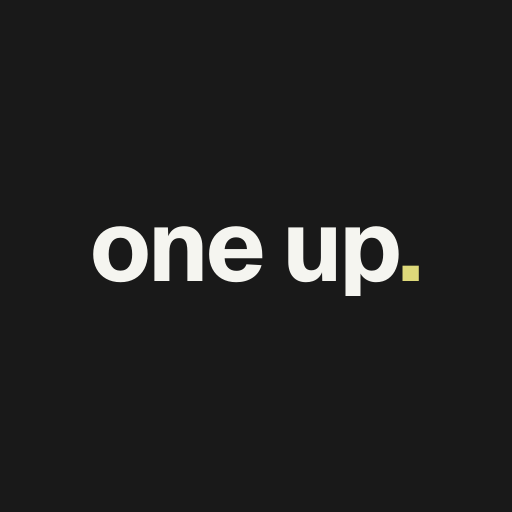
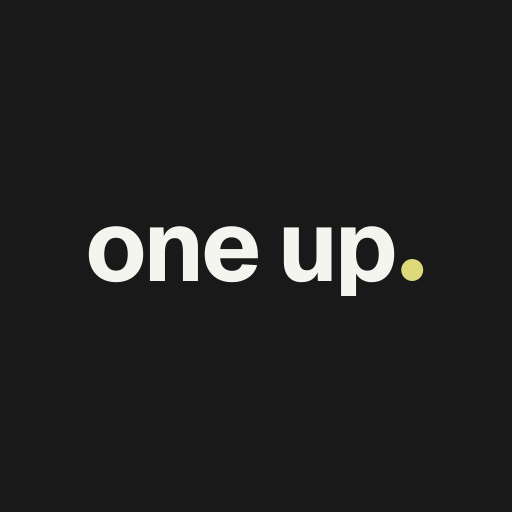
Wordmark full stop is a round accent dot
The "." in "one up." is now a circle in the accent colour (Citron; olive on
the light theme) everywhere: the in-app .wordmark, the web opening screen,
the recap footer, the mobile sign-in title, and every generated icon and
splash image (0.22 em, sitting on the baseline).

Claude-Session: https://claude.ai/code/session_01PXD93eAE4qysGarwNQSYZq

Changed region(s): [[0.1562, 0.4375, 0.8438, 0.5938]]

diff --git a/app/globals.css b/app/globals.css
@@ -139,17 +139,23 @@ input[type="number"] {
   border-radius: 9999px;
 }
 
-/* Editorial wordmark: lowercase with a Citron full stop. */
+/* Editorial wordmark: lowercase with a round Citron full stop. */
 .wordmark {
   font-weight: 700;
   letter-spacing: -0.035em;
 }
+/* The full stop is a round dot in the accent colour. */
 .wordmark::after {
-  content: ".";
-  color: var(--color-citron);
+  content: "";
+  display: inline-block;
+  width: 0.22em;
+  height: 0.22em;
+  margin-left: 0.07em;
+  border-radius: 9999px;
+  background: var(--color-citron);
 }
 :root[data-theme="light"] .wordmark::after {
-  color: var(--color-teal-400);
+  background: var(--color-teal-400);
 }
 
 /* Editorial photo, softened a touch (the source photos are small). */
@@ -552,9 +558,9 @@ input[type="number"] {
 @keyframes dot-pop { 0% { transform: scale(0); } 65% { transform: scale(1.5); } 100% { transform: scale(1); } }
 .launch-w1 { animation: word-rise 420ms var(--ease-out-snappy, ease-out) 60ms both; }
 .launch-w2 { animation: word-rise 420ms var(--ease-out-snappy, ease-out) 200ms both; }
-.launch-dot { transform-origin: 50% 80%; animation: dot-pop 380ms ease-out 480ms both; }
+.launch-dot { transform-origin: center; animation: dot-pop 380ms ease-out 480ms both; }
 .launch-tag { animation: word-rise 400ms ease-out 560ms both; }
-:root[data-theme="light"] .launch-dot { color: var(--color-teal-400); }
+:root[data-theme="light"] .launch-dot { background: var(--color-teal-400); }
 @media (prefers-reduced-motion: reduce) {
   .launch-w1, .launch-w2, .launch-dot, .launch-tag { animation: none; }
 }

diff --git a/apps/mobile/app/login.tsx b/apps/mobile/app/login.tsx
@@ -33,9 +33,11 @@ export default function Login() {
       behavior={Platform.OS === "ios" ? "padding" : undefined}
       style={[s.root, { backgroundColor: t.page, paddingTop: insets.top + 48, paddingBottom: insets.bottom + 24 }]}
     >
-      <Text style={[s.title, { color: t.text }]}>
-        one up<Text style={{ color: t.dark ? "#DED97A" : "#8A851F" }}>.</Text>
-      </Text>
+      <View accessible accessibilityLabel="one up" style={s.brand}>
+        <Text style={[s.title, { color: t.text }]}>one up</Text>
+        {/* Round full stop in the accent colour, like the web wordmark. */}
+        <View style={[s.dot, { backgroundColor: t.dark ? "#DED97A" : "#8A851F" }]} />
+      </View>
       <Text style={[s.sub, { color: t.muted }]}>Sign in to continue</Text>
 
       <TextInput
@@ -89,6 +91,8 @@ export default function Login() {
 const s = StyleSheet.create({
   root: { flex: 1, paddingHorizontal: 24, gap: 12 },
   title: { fontSize: 32, fontWeight: "800" },
+  brand: { flexDirection: "row", alignItems: "flex-end" },
+  dot: { width: 7, height: 7, borderRadius: 4, marginLeft: 2, marginBottom: 9 },
   sub: { fontSize: 16, marginBottom: 12 },
   input: { borderWidth: 1, borderRadius: 12, paddingHorizontal: 14, paddingVertical: 12, fontSize: 16 },
   button: { borderRadius: 12, paddingVertical: 14, alignItems: "center", justifyContent: "center", minHeight: 48 },

diff --git a/components/brand/LaunchSplash.tsx b/components/brand/LaunchSplash.tsx
@@ -44,7 +44,7 @@ export function LaunchSplash() {
     >
       <p className="text-5xl font-bold tracking-[-0.035em] text-zinc-50">
         <span className="launch-w1 inline-block">one</span> <span className="launch-w2 inline-block">up</span>
-        <span className="launch-dot inline-block text-citron">.</span>
+        <span className="launch-dot ml-[0.07em] inline-block h-[0.22em] w-[0.22em] rounded-full bg-citron" />
       </p>
       <p className="launch-tag mt-3 text-sm text-zinc-500">One better than yesterday.</p>
     </div>

diff --git a/components/recap/RecapStory.tsx b/components/recap/RecapStory.tsx
@@ -557,7 +557,9 @@ export function RecapStory({ recap, links }: { recap: Recap; links: { label: str
           <span>
             {i + 1} / {slides.length}
           </span>
-          <span>one up. · {t.label}</span>
+          <span>
+            <span className="wordmark normal-case tracking-normal">one up</span> · {t.label}
+          </span>
         </div>
       </div>
     </div>
